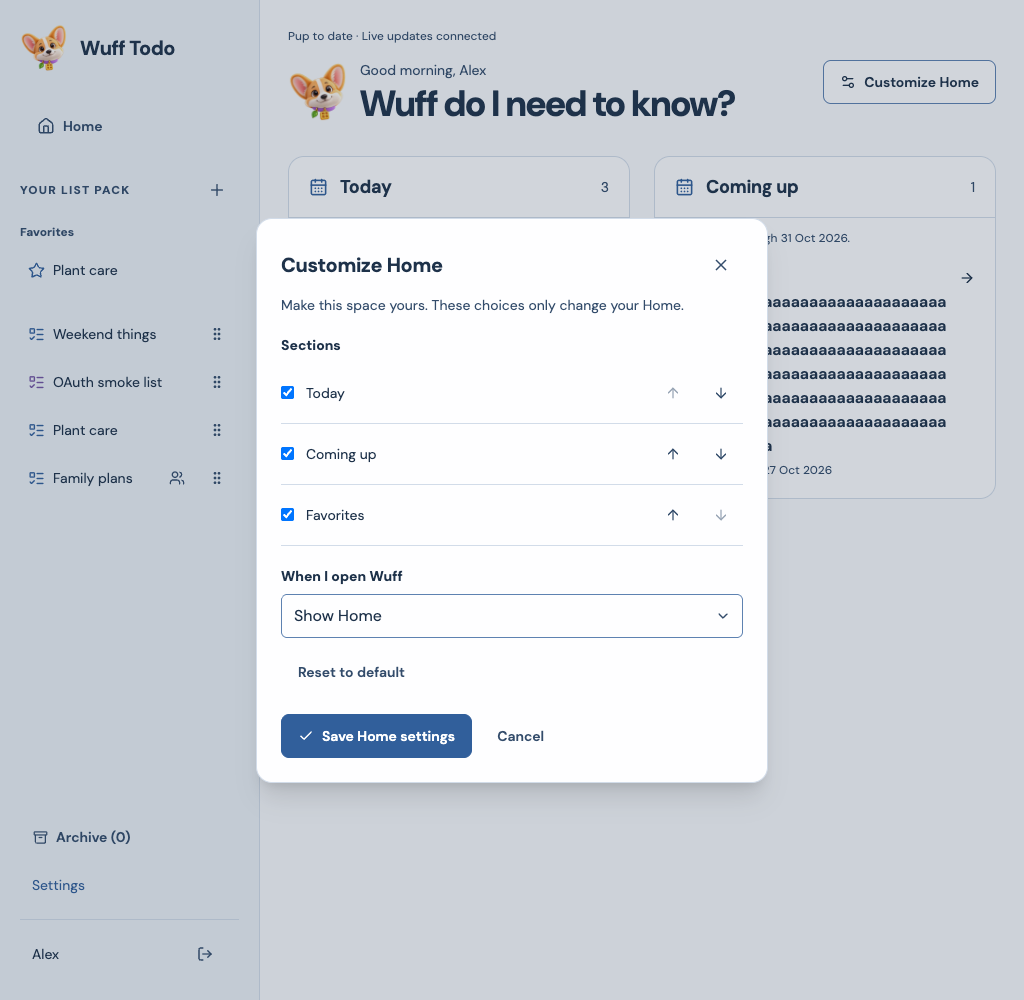
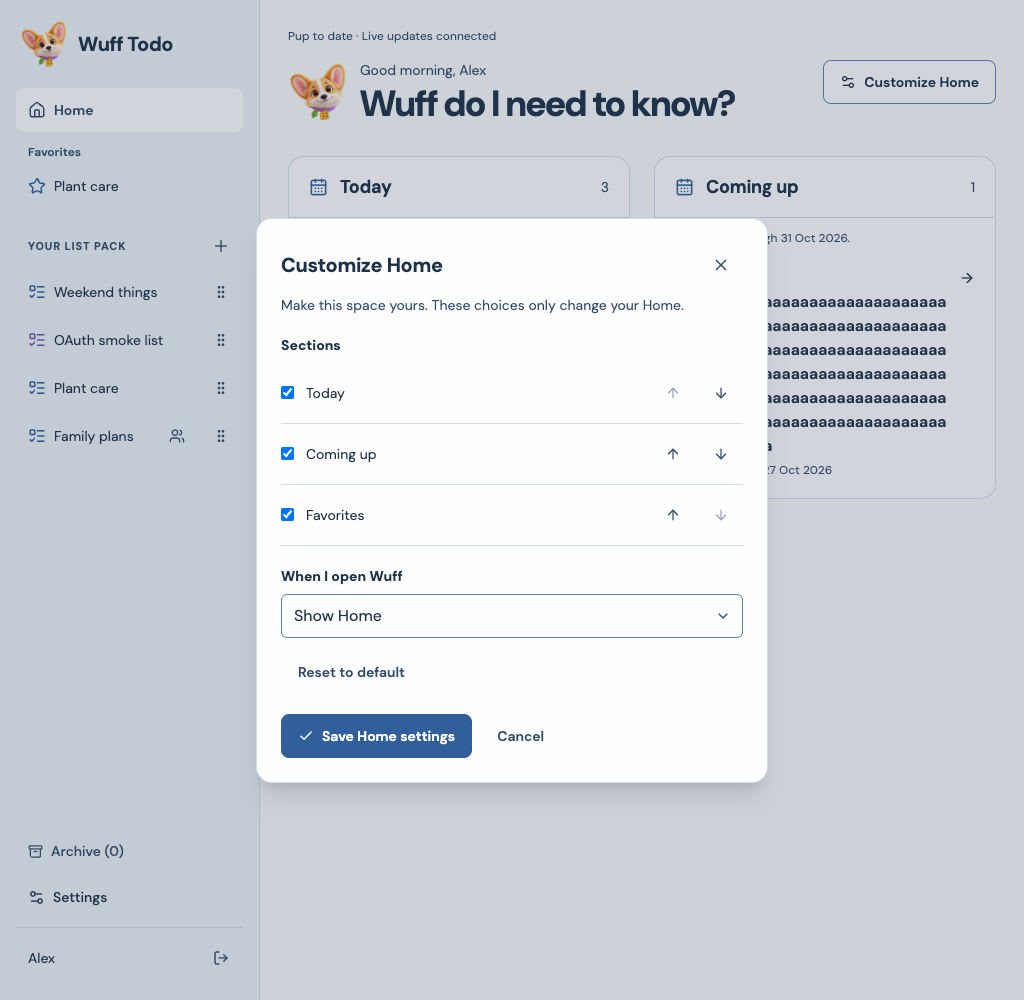
Tighten sidebar spacing and navigation hierarchy

diff --git a/packages/ui/src/features/app/lists/list-app.tsx b/packages/ui/src/features/app/lists/list-app.tsx
@@ -8,7 +8,15 @@ import {
 
 import { wuffCopy, wuffError } from "../../lib/copy";
 import { useCallback, useEffect, useRef, useState } from "react";
-import { Archive, House, ListTodo, LogOut, Plus, Trash2 } from "lucide-react";
+import {
+  Archive,
+  House,
+  ListTodo,
+  LogOut,
+  Plus,
+  Settings2,
+  Trash2,
+} from "lucide-react";
 import type { ListOrder, ListSummary, TodoList } from "@wuff/contracts";
 import { Button } from "../../../button";
 import { Corgi } from "../../components/corgi";
@@ -539,8 +547,8 @@ export function ListApp({
           onStatus={setLiveStatus}
         />
       )}
-      <aside className="workspace-sidebar bg-sidebar border-b md:border-b-0 md:border-r border-border px-5 py-4 md:py-6 flex flex-col">
-        <div className="flex gap-3 items-center md:mb-8">
+      <aside className="workspace-sidebar bg-sidebar border-b md:border-b-0 md:border-r border-border px-4 py-4 md:py-5 flex flex-col">
+        <div className="sidebar-brand flex gap-2.5 items-center md:mb-5">
           <Corgi size={48} />
           <span className="wordmark text-xl font-bold">Wuff Todo</span>
           <Button
@@ -571,7 +579,7 @@ export function ListApp({
           <Button
             type="button"
             variant="ghost"
-            className="justify-start mb-5"
+            className="sidebar-home justify-start mb-3"
             aria-current={!selectedId && !showArchive ? "page" : undefined}
             onClick={() => {
               chooseList("");
@@ -582,63 +590,69 @@ export function ListApp({
             <House size={18} />
             Home
           </Button>
-          <div className="flex items-center justify-between mb-3">
-            <span className="text-xs font-bold tracking-widest text-muted-foreground uppercase">
-              {showArchive ? wuffCopy.archiveHeading : wuffCopy.listsHeading}
-            </span>
-            <Button
-              size="icon"
-              variant="ghost"
-              aria-label="Create list"
-              disabled={busy || !!pendingCreate}
-              onClick={() => setCreating((v) => !v)}
-            >
-              <Plus size={18} />
-            </Button>
-          </div>
           <div className="workspace-list-nav">
-            {creating && (
-              <form
-                className="mb-4 grid gap-2"
-                onSubmit={async (e) => {
-                  e.preventDefault();
-                  await create(
-                    String(new FormData(e.currentTarget).get("title")),
-                  );
-                }}
-              >
-                <label
-                  htmlFor="new-list-name"
-                  className="text-xs text-muted-foreground"
-                >
-                  List name
-                </label>
-                <InputGroup>
-                  <InputGroupInput
-                    id="new-list-name"
-                    name="title"
-                    aria-label="List name"
-                    placeholder={wuffCopy.listPlaceholder}
-                    maxLength={300}
-                    required
-                    autoFocus
-                  />
-                  <InputGroupAddon align="inline-end">
-                    <InputGroupButton
-                      type="submit"
-                      size="sm"
-                      variant="primary"
-                      disabled={busy}
-                      aria-label="Create list"
-                      title="Create list"
-                    >
-                      <Plus size={18} aria-hidden="true" /> Create
-                    </InputGroupButton>
-                  </InputGroupAddon>
-                </InputGroup>
-              </form>
-            )}
             <SidebarLists
+              controls={
+                <>
+                  <div className="sidebar-section-heading">
+                    <span className="text-xs font-bold tracking-widest text-muted-foreground uppercase">
+                      {showArchive
+                        ? wuffCopy.archiveHeading
+                        : wuffCopy.listsHeading}
+                    </span>
+                    <Button
+                      size="icon"
+                      variant="ghost"
+                      aria-label="Create list"
+                      disabled={busy || !!pendingCreate}
+                      onClick={() => setCreating((v) => !v)}
+                    >
+                      <Plus size={18} />
+                    </Button>
+                  </div>
+                  {creating && (
+                    <form
+                      className="mb-4 grid gap-2"
+                      onSubmit={async (e) => {
+                        e.preventDefault();
+                        await create(
+                          String(new FormData(e.currentTarget).get("title")),
+                        );
+                      }}
+                    >
+                      <label
+                        htmlFor="new-list-name"
+                        className="text-xs text-muted-foreground"
+                      >
+                        List name
+                      </label>
+                      <InputGroup>
+                        <InputGroupInput
+                          id="new-list-name"
+                          name="title"
+                          aria-label="List name"
+                          placeholder={wuffCopy.listPlaceholder}
+                          maxLength={300}
+                          required
+                          autoFocus
+                        />
+                        <InputGroupAddon align="inline-end">
+                          <InputGroupButton
+                            type="submit"
+                            size="sm"
+                            variant="primary"
+                            disabled={busy}
+                            aria-label="Create list"
+                            title="Create list"
+                          >
+                            <Plus size={18} aria-hidden="true" /> Create
+                          </InputGroupButton>
+                        </InputGroupAddon>
+                      </InputGroup>
+                    </form>
+                  )}
+                </>
+              }
               lists={summaries}
               archived={showArchive}
               selectedId={selectedId}
@@ -693,8 +707,8 @@ export function ListApp({
               </p>
             )}
           </div>
-          <div className="workspace-footer mt-6 md:mt-auto pt-4 md:pt-8 text-sm flex flex-wrap md:block items-center justify-between gap-1">
-            <div className="flex flex-wrap md:grid items-center gap-1">
+          <div className="workspace-footer mt-4 md:mt-auto pt-3 text-sm flex flex-wrap md:block items-center justify-between gap-1">
+            <div className="sidebar-utilities flex flex-wrap md:grid items-center gap-0.5">
               <Button
                 variant="ghost"
                 size="sm"
@@ -715,8 +729,9 @@ export function ListApp({
 
               <a
                 href={runtime.webOrigin + "/settings"}
-                className="flex min-h-11 items-center px-3 py-2 text-primary hover:underline"
+                className="sidebar-settings flex min-h-11 items-center gap-2 rounded-lg px-3 py-2 font-medium hover:bg-surface/60"
               >
+                <Settings2 size={17} aria-hidden="true" />
                 Settings
               </a>
             </div>
@@ -733,7 +748,7 @@ export function ListApp({
                 Enable GitHub changes
               </Button>
             )}
-            <div className="flex items-center justify-between px-3 md:pt-3 md:border-t border-border md:mt-3">
+            <div className="sidebar-account flex min-w-0 items-center justify-between pl-3 md:pt-2 md:border-t border-border md:mt-2">
               <span className="hidden md:inline truncate">{name}</span>
               <Button
                 aria-label="Sign out"

diff --git a/packages/ui/src/features/app/lists/sidebar-lists.tsx b/packages/ui/src/features/app/lists/sidebar-lists.tsx
@@ -1,5 +1,5 @@
 "use client";
-import { useEffect, useState } from "react";
+import { useEffect, useState, type ReactNode } from "react";
 import { ChevronDown, ChevronRight, ListTodo, Star, Users } from "lucide-react";
 import { sidebarGroups, type ListSummary } from "@wuff/contracts";
 import { Button } from "../../../button";
@@ -7,6 +7,7 @@ import { SortableItem, SortableList } from "../../components/sortable";
 import { listPalette } from "../../lib/list-colors";
 
 export function SidebarLists({
+  controls,
   lists,
   archived,
   selectedId,
@@ -17,6 +18,7 @@ export function SidebarLists({
   toggle,
   pending,
 }: {
+  controls?: ReactNode;
   lists: ListSummary[];
   archived: boolean;
   selectedId: string;
@@ -45,7 +47,7 @@ export function SidebarLists({
       >
         {({ ref, style, handle }) => (
           <div ref={ref} style={style} className="min-w-0">
-            <div className="flex min-w-0 items-center gap-0.5">
+            <div className="sidebar-list-row flex min-w-0 items-center gap-0.5">
               {children.length > 0 && (
                 <Button
                   type="button"
@@ -70,11 +72,12 @@ export function SidebarLists({
               )}
               <button
                 type="button"
+                title={list.title}
                 onClick={() => choose(list.id)}
                 onPointerEnter={() => preload(list.id)}
                 onFocus={() => preload(list.id)}
                 aria-current={list.id === selectedId ? "page" : undefined}
-                className={`flex flex-1 min-w-0 items-center gap-2 text-left rounded-xl px-2 py-3 text-sm ${list.id === selectedId ? "shadow-sm font-semibold" : "hover:bg-surface/60"}`}
+                className={`flex flex-1 min-w-0 items-center gap-2 text-left rounded-lg min-h-11 px-3 py-2 text-sm ${list.id === selectedId ? "font-semibold" : "hover:bg-surface/60"}`}
                 style={{
                   background:
                     list.id === selectedId
@@ -134,10 +137,13 @@ export function SidebarLists({
   return (
     <>
       {!archived && lists.some((list) => list.favorite && !list.archived) && (
-        <section className="mb-5" aria-labelledby="favorite-lists-heading">
+        <section
+          className="sidebar-favorites mb-4"
+          aria-labelledby="favorite-lists-heading"
+        >
           <h3
             id="favorite-lists-heading"
-            className="text-xs font-bold text-muted-foreground mb-2"
+            className="sidebar-group-label text-xs font-semibold text-muted-foreground px-3 mb-1"
           >
             Favorites
           </h3>
@@ -148,11 +154,12 @@ export function SidebarLists({
                 <button
                   key={list.id}
                   type="button"
+                  title={list.title}
                   onClick={() => choose(list.id)}
                   onPointerEnter={() => preload(list.id)}
                   onFocus={() => preload(list.id)}
                   aria-current={list.id === selectedId ? "page" : undefined}
-                  className={`flex min-w-0 items-center gap-2 rounded-xl px-2 py-3 text-left text-sm ${list.id === selectedId ? "shadow-sm font-semibold" : "hover:bg-surface/60"}`}
+                  className={`flex min-w-0 items-center gap-2 rounded-lg min-h-11 px-3 py-2 text-left text-sm ${list.id === selectedId ? "font-semibold" : "hover:bg-surface/60"}`}
                   style={{
                     background:
                       list.id === selectedId
@@ -181,6 +188,7 @@ export function SidebarLists({
           </nav>
         </section>
       )}
+      {controls}
       <nav aria-label={archived ? "Archived lists" : "Lists"}>
         <SortableList
           items={groups.map((group) => group.list)}

diff --git a/scripts/verify-desktop-workspace.ts b/scripts/verify-desktop-workspace.ts
@@ -191,6 +191,29 @@ try {
       assert.equal(Math.round(layout.mainWidth), width - 260);
       assert.ok(layout.cardX - layout.mainX <= 40);
       assert.ok(layout.docHeight <= 1000);
+      const sidebar = await page.evaluate(() => {
+        const root = document.querySelector(".workspace-sidebar")!;
+        const favorite = root.querySelector(".sidebar-favorites")!;
+        const listRow = root.querySelector(".sidebar-list-row > button")!;
+        const home = root.querySelector(".sidebar-home")!;
+        return {
+          favoriteBottom: favorite.getBoundingClientRect().bottom,
+          headingTop: root
+            .querySelector(".sidebar-section-heading")!
+            .getBoundingClientRect().top,
+          rowHeight: listRow.getBoundingClientRect().height,
+          homeHeight: home.getBoundingClientRect().height,
+          favoriteIconX: favorite
+            .querySelector("nav button svg")!
+            .getBoundingClientRect().x,
+          listIconX: listRow.querySelector("svg")!.getBoundingClientRect().x,
+          homeIconX: home.querySelector("svg")!.getBoundingClientRect().x,
+        };
+      });
+      assert.ok(sidebar.headingTop >= sidebar.favoriteBottom);
+      assert.ok(sidebar.rowHeight >= 44 && sidebar.homeHeight >= 44);
+      assert.equal(sidebar.favoriteIconX, sidebar.listIconX);
+      assert.equal(sidebar.homeIconX, sidebar.listIconX);
     }
     await mkdir("docs/screenshots", { recursive: true });
     await page.screenshot({

diff --git a/packages/ui/src/features/views.css b/packages/ui/src/features/views.css
@@ -611,3 +611,46 @@ button:focus-visible {
     width: min(800px, 55vw);
   }
 }
+
+/* Shared icon/text rails keep shortcuts, lists and utilities easy to scan. */
+.sidebar-brand {
+  padding-inline: 4px;
+}
+.sidebar-home {
+  padding-inline: 11px;
+}
+.sidebar-home[aria-current="page"] {
+  background: var(--wuff-surface);
+}
+.sidebar-section-heading {
+  display: flex;
+  align-items: center;
+  justify-content: space-between;
+  min-height: 44px;
+  padding-left: 12px;
+  margin-bottom: 2px;
+}
+.sidebar-section-heading > span {
+  font-size: 11px;
+  letter-spacing: 0.08em;
+}
+.sidebar-list-row > button:first-of-type > svg:first-child,
+.sidebar-favorites nav > button > svg:first-child {
+  width: 18px;
+  height: 18px;
+}
+.sidebar-list-row > button[aria-current="page"],
+.sidebar-favorites button[aria-current="page"] {
+  box-shadow: inset 2px 0 var(--wuff-primary);
+}
+.sidebar-utilities > button {
+  padding-inline: 11px;
+  font-size: 14px;
+  font-weight: 500;
+}
+.sidebar-account {
+  gap: 8px;
+}
+.sidebar-favorites nav > button {
+  padding-right: 58px;
+}

diff --git a/docs/verification.md b/docs/verification.md
@@ -256,3 +256,7 @@ Local TypeScript, optimized web/MCP/prototype build and native frontend build pa
 Source `077013a` was committed/pushed to main. GitHub Verify run `40030934697` and Native test builds run `40030934474` failed before any steps: check annotation says recent account payments failed or the spending limit needs increasing. Local checks above passed; remote CI and newly published native artifacts are not claimed.
 
 Vercel CLI production deployment `dpl_HzxLuEUaeiKiS1VRNNse8YjdRJzT` is Ready, aliased to `https://wuff-todo.vercel.app`, with `fra1` outputs. Authenticated production Chrome at 1710px measured three visible Home tracks (~443px each), a 1450px main canvas beginning at x=260, a 1378px list heading, and no horizontal document overflow. Task pages measured 1440px with Notes/context tracks ~827/517px; Settings measured 1440px, both without overflow. Live updates connected, existing list/task data rendered, and no captured console errors occurred. These production checks only navigated/read; no production fixture, content or preference mutation was needed. [Production Home screenshot](screenshots/desktop-production.png). The browser harness was rerun successfully after ensuring the drawer screenshot waits for loaded task controls.
+
+## Sidebar spacing — October 24, 2026
+
+[Sidebar layout decisions](desktop-workspace.md#sidebar-spacing-refinement--october-24) separate Favorites from the full list tree and align Home, shortcuts, list icons and utility controls. Workspace/root TypeScript, optimized web/MCP/prototype build and shared native frontend build passed. The optimized development browser harness passed at 320/390/768/1024/1280/1440/1920px, now also asserting Home/favorite/list icon x-coordinate alignment, 44px row minimums and Favorites-before-list-heading order. Existing independent scrolling, pinned footer, drawer draft retention and Home behavior checks passed; synthetic fixtures/preferences were restored. Screenshots `desktop-home-*` show the updated sidebar. Production release evidence follows after deployment.

diff --git a/docs/desktop-workspace.md b/docs/desktop-workspace.md
@@ -13,3 +13,7 @@ The user asked for Home cards in rows and better use of the desktop canvas acros
 ## Verification and release
 
 Use `node --env-file=.env.local --import tsx scripts/verify-desktop-workspace.ts` with the optimized local website, separately from other synthetic auth/fixture runs. It measures card tracks/canvas/overflow at 320/390/768/1024/1280/1440/1920px and checks scrolling, footer visibility, drawer draft retention, task/settings layouts, and existing Home customization/retry/history recovery. Fixtures and personal synthetic preferences are restored afterward. Production deployment and authenticated geometry checks passed; exact evidence is recorded in [verification](verification.md#desktop-workspace--october-24-2026). Installed native devices and screen-reader behavior remain separate checks.
+
+## Sidebar spacing refinement — October 24
+
+Favorites now precede the list-pack heading so shortcuts and the complete tree have separate, adjacent labels. Brand-to-Home spacing is 20px, Home-to-scrollable groups 12px, and rows have 44px minimum targets with tighter vertical padding. Icons/text use a shared left rail; favorite sharing cues reserve the reorder-control column used by the tree. Labels truncate with full-title tooltips. Selection uses a tinted row and inset accent rather than a raised shadow. Archive and Settings share utility-row typography and icons; the account row sits beneath a compact divider. Desktop scrolling/pinned footer and phone collapse behavior remain intact.
